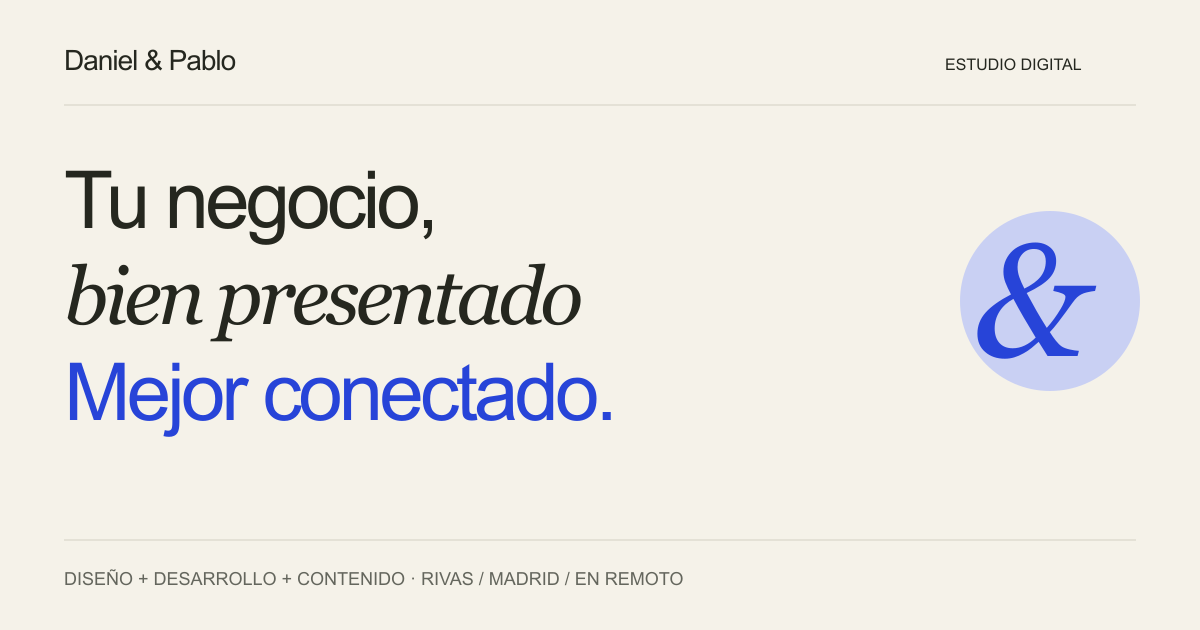
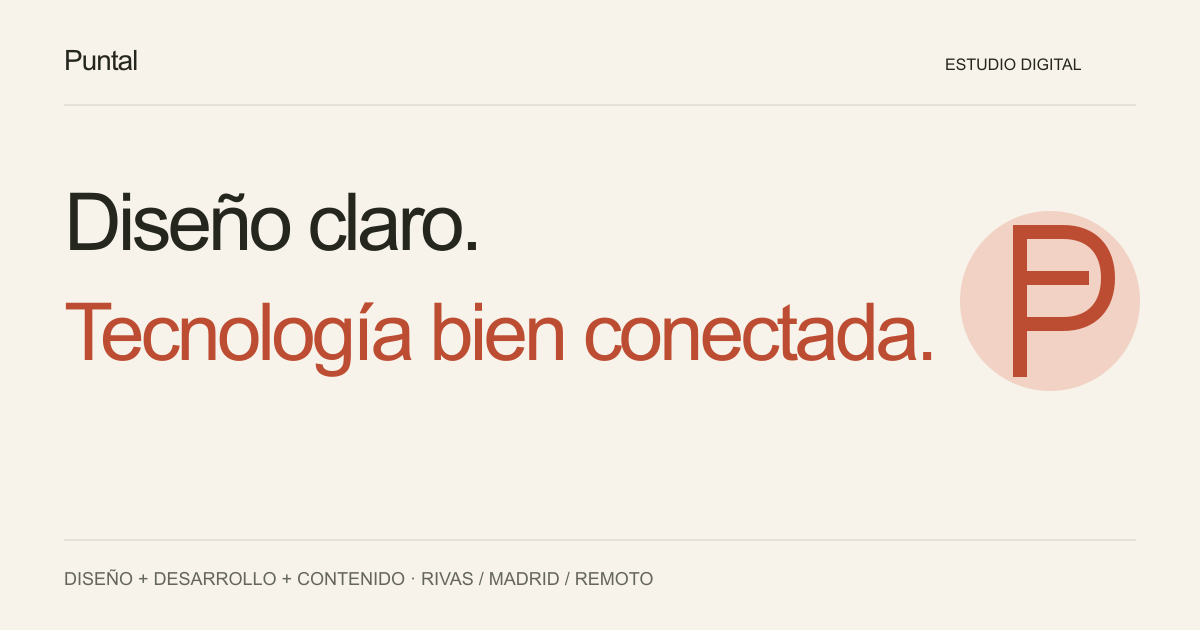
Propose Puntal agency brand identity

diff --git a/src/styles/global.css b/src/styles/global.css
@@ -2,12 +2,12 @@
 
 :root {
   color-scheme: light;
-  --paper: #f5f2e9;
+  --paper: #f7f3ea;
   --ink: #25271f;
   --muted: #64665d;
-  --blue: #2744d8;
+  --blue: #bd4d32;
   --line: #d3d0c3;
-  --cream: #eae5d8;
+  --cream: #eee8dc;
   --display: 'Space Grotesk Variable', sans-serif;
   --body: 'DM Sans Variable', sans-serif;
   --ease: cubic-bezier(0.22, 1, 0.36, 1);
@@ -139,10 +139,19 @@ img {
   display: flex;
   flex-direction: column;
   font: 500 26px/1.1 var(--display);
-  letter-spacing: -0.08em;
+  letter-spacing: -0.04em;
+}
+.wordmark-lockup {
+  display: flex;
+  align-items: center;
+  gap: 9px;
+}
+.brand-mark {
+  width: 29px;
+  height: 29px;
 }
 .wordmark-descriptor {
-  margin-top: 8px;
+  margin-left: 38px;
   font: 9px/1.4 var(--body);
   text-transform: uppercase;
   letter-spacing: 0.13em;
@@ -318,7 +327,7 @@ img {
 .connection-canvas {
   position: relative;
   height: 460px;
-  background: #e4e2d7;
+  background: #ebe5d9;
   overflow: hidden;
 }
 .connection-canvas::before {
@@ -355,8 +364,8 @@ img {
   width: 58%;
   height: 280px;
   padding: 19px;
-  background: #eddfb0;
-  color: #383729;
+  background: #f1d2c4;
+  color: #3a2b26;
   transform: rotate(-10deg);
 }
 .folio-identity > span:first-child {
@@ -703,7 +712,7 @@ details[open] > summary .accordion-plus {
   color: #b5b6a9;
 }
 .team-section .eyebrow > span:first-child {
-  color: #a0b2ff;
+  color: #f1a18a;
 }
 .team-grid {
   display: grid;
@@ -725,7 +734,7 @@ details[open] > summary .accordion-plus {
   height: 125px;
   display: grid;
   place-items: center;
-  background: #3c43bb;
+  background: #bd4d32;
   color: #e8ebd7;
   font: 400 47px/1 var(--display);
   letter-spacing: -0.11em;
@@ -759,7 +768,7 @@ details[open] > summary .accordion-plus {
   font-size: 12px;
 }
 .team-section a:focus-visible {
-  outline-color: #bbc7ff;
+  outline-color: #f1d2c4;
 }
 .team-more {
   margin-top: 38px;
@@ -832,7 +841,7 @@ details[open] > summary .accordion-plus {
 .contact-cta-inner > div > p {
   font-size: 15px;
   max-width: 350px;
-  color: #e3e7ff;
+  color: #f5ddd2;
 }
 .contact-cta .button {
   background: var(--paper);
@@ -859,8 +868,15 @@ details[open] > summary .accordion-plus {
   padding-block: 54px 28px;
 }
 .footer-wordmark {
-  font: 500 32px/1 var(--display);
-  letter-spacing: -0.08em;
+  display: inline-flex;
+  align-items: center;
+  gap: 12px;
+  font: 600 30px/1 var(--display);
+  letter-spacing: -0.04em;
+}
+.footer-brand-mark {
+  width: 34px;
+  height: 34px;
 }
 .site-footer > div:first-child p {
   color: var(--muted);
@@ -1459,9 +1475,13 @@ details[open] > summary .accordion-plus {
   .wordmark {
     font-size: 23px;
   }
+  .brand-mark {
+    width: 26px;
+    height: 26px;
+  }
   .wordmark-descriptor {
     font-size: 8px;
-    margin-top: 7px;
+    margin-left: 35px;
   }
   .desktop-nav {
     display: none;
@@ -1886,6 +1906,10 @@ details[open] > summary .accordion-plus {
   }
   .footer-wordmark {
     font-size: 30px;
+  }
+  .footer-brand-mark {
+    width: 30px;
+    height: 30px;
   }
   .site-footer > div:first-child p {
     font-size: 11px;

diff --git a/src/components/Navigation.tsx b/src/components/Navigation.tsx
@@ -9,7 +9,10 @@ export function Header({ path }: { path: string }) {
   return (
     <header className="site-header shell">
       <a href="/" className="wordmark" aria-label={`${brand.wordmark}, inicio`}>
-        <span>{brand.wordmark}</span>
+        <span className="wordmark-lockup">
+          <img className="brand-mark" src="/isotipo-puntal.svg" alt="" />
+          <span>{brand.wordmark}</span>
+        </span>
         <span className="wordmark-descriptor">{brand.descriptor}</span>
       </a>
       <nav className="desktop-nav" aria-label="Navegación principal">
@@ -58,7 +61,8 @@ export function Footer() {
     <footer className="site-footer shell">
       <div>
         <a className="footer-wordmark" href="/">
-          {brand.wordmark}
+          <img className="footer-brand-mark" src="/isotipo-puntal.svg" alt="" />
+          <span>{brand.wordmark}</span>
         </a>
         <p>
           {brand.descriptor}

diff --git a/src/content/site.ts b/src/content/site.ts
@@ -1,12 +1,12 @@
 export const brand = {
-  name: 'Daniel & Pablo — Estudio digital',
-  wordmark: 'Daniel & Pablo',
+  name: 'Puntal — Estudio digital',
+  wordmark: 'Puntal',
   descriptor: 'Estudio digital',
   provisional: true,
   location: 'Rivas Vaciamadrid · Madrid · En remoto',
-  headline: 'Tu negocio, bien presentado y mejor conectado',
+  headline: 'Diseño claro. Tecnología bien conectada.',
   description:
-    'Unimos diseño, desarrollo y contenido para crear tu web y conectar los procesos que necesita tu negocio.',
+    'Un estudio digital de Daniel Doral y Pablo Castillo. Unimos diseño, desarrollo web y herramientas digitales para ayudar a los negocios a presentar mejor lo que hacen y simplificar procesos.',
 };
 export const contacts = {
   daniel: {

diff --git a/src/components/Graphics.tsx b/src/components/Graphics.tsx
@@ -7,7 +7,7 @@ export function ConnectionGraphic() {
         aria-label="Composición original del estudio: una identidad visual, una web y las conexiones entre ellas"
       >
         <span className="graphic-label label-one">
-          PENSADO EN CONJUNTO / D&P
+          DISEÑO + TECNOLOGÍA / PUNTAL
         </span>
         <div className="folio-sheet folio-identity" aria-hidden="true">
           <span>01 — IDENTIDAD</span>
@@ -25,7 +25,7 @@ export function ConnectionGraphic() {
             <span>02 — WEB</span>
           </div>
           <div className="folio-browser-body">
-            <span className="folio-logo">d&p.</span>
+            <span className="folio-logo">puntal.</span>
             <strong>
               Bien
               <br />

diff --git a/docs/IDENTIDAD_MARCA.md b/docs/IDENTIDAD_MARCA.md
@@ -1,0 +1,60 @@
+# Identidad propuesta — Puntal
+
+## Estado
+
+**Nombre de trabajo:** Puntal · Estudio digital  
+**Estado:** propuesta para Daniel y Pablo. Pendiente de su aprobación y de revisar marca, dominio y perfiles antes de cualquier uso público.
+
+La web local incorpora esta propuesta para que se pueda valorar en contexto. No representa un cambio legal de denominación, una empresa registrada ni una marca disponible.
+
+## Núcleo
+
+**Qué hacemos:** combinamos diseño visual y desarrollo para mejorar cómo un negocio se presenta y cómo funcionan sus herramientas digitales.
+
+**Para quién:** negocios y profesionales que necesitan una presencia digital más clara, una web, contenido o conexiones entre herramientas. La web no atribuye clientes, resultados ni servicios operativos que no estén verificados.
+
+**Idea central:** ser un apoyo firme para ordenar y construir el siguiente paso digital de un negocio. “Puntal” da una imagen concreta de soporte; funciona junto a las dos especialidades que ya constan en el estudio.
+
+**Promesa verbal:** Diseño claro. Tecnología bien conectada.
+
+**Descriptor:** Estudio digital.
+
+## Voz
+
+- Directa, cercana y concreta; hablar de necesidades y entregables.
+- Explicar automatización y asistentes como temas sujetos a viabilidad.
+- Evitar superlativos, jerga vacía y promesas de crecimiento o ahorro.
+- Mantener visibles los papeles de Daniel (desarrollo) y Pablo (diseño).
+
+## Sistema visual
+
+| Elemento              | Uso                                                |
+| --------------------- | -------------------------------------------------- |
+| Carbón `#25271F`      | Texto, trazo principal y contraste                 |
+| Papel `#F7F3EA`       | Fondo principal                                    |
+| Teja `#BD4D32`        | Acento, enlaces y punto de unión                   |
+| Melocotón `#F1D2C4`   | Superficies gráficas secundarias                   |
+| Gris piedra `#64665D` | Texto secundario; comprobar contraste por contexto |
+| Space Grotesk         | Titulares y marca                                  |
+| DM Sans               | Lectura y navegación                               |
+
+El símbolo original combina la letra P con dos apoyos y una unión horizontal. El logotipo se compone de símbolo y nombre; el isotipo funciona solo en favicon y tamaños reducidos. No usar el naranja como texto pequeño sobre fondos claros: reservarlo para elementos grandes, gráficos y acentos; los enlaces usan el tono teja oscuro definido en CSS.
+
+## Activos creados
+
+- `public/logotipo-puntal.svg`: firma horizontal original.
+- `public/isotipo-puntal.svg`: símbolo independiente.
+- `public/favicon.svg`: versión simplificada para 64 px.
+- `public/og.png`: tarjeta de compartir generada desde `scripts/create-og.mjs` durante el build.
+
+## Pendientes antes de aprobar
+
+1. Daniel y Pablo confirman o rechazan el nombre y la promesa.
+2. Búsqueda formal de marcas y nombres similares en OEPM/EUIPO, clases pertinentes y territorios previstos.
+3. Verificar dominio y perfiles sociales; no se presupone que estén disponibles.
+4. Aprobar tono, paleta y activos finales. La web debe conservar `provisional: true` hasta entonces.
+5. Aportar dominio real, imágenes y permisos antes de configurar publicación.
+
+## Nota de búsqueda preliminar
+
+La búsqueda abierta encontró usos de nombres candidatos en la misma categoría o con asociaciones claras con diseño/desarrollo, por lo que se descartaron **Trama**, **Tándem**, **Cauce**, **Cimbra**, **Umbral** e **Interlínea** como primeras opciones. Entre los resultados están [Trama Studio](https://trama.studio/es/acerca-de-trama/), [El Tándem Comunicación](https://www.eltandem.com/el-tandem/), [Cauce](https://estudiocauce.es/), [Cimbra](https://cimbra.dev/es/), [Umbral Partners](https://umbralpartners.com/) y [Estudio Interlínea](https://estudiointerlinea.com/). Esta exploración solo ayuda a evitar coincidencias evidentes; no es una comprobación registral ni acredita disponibilidad de Puntal.
